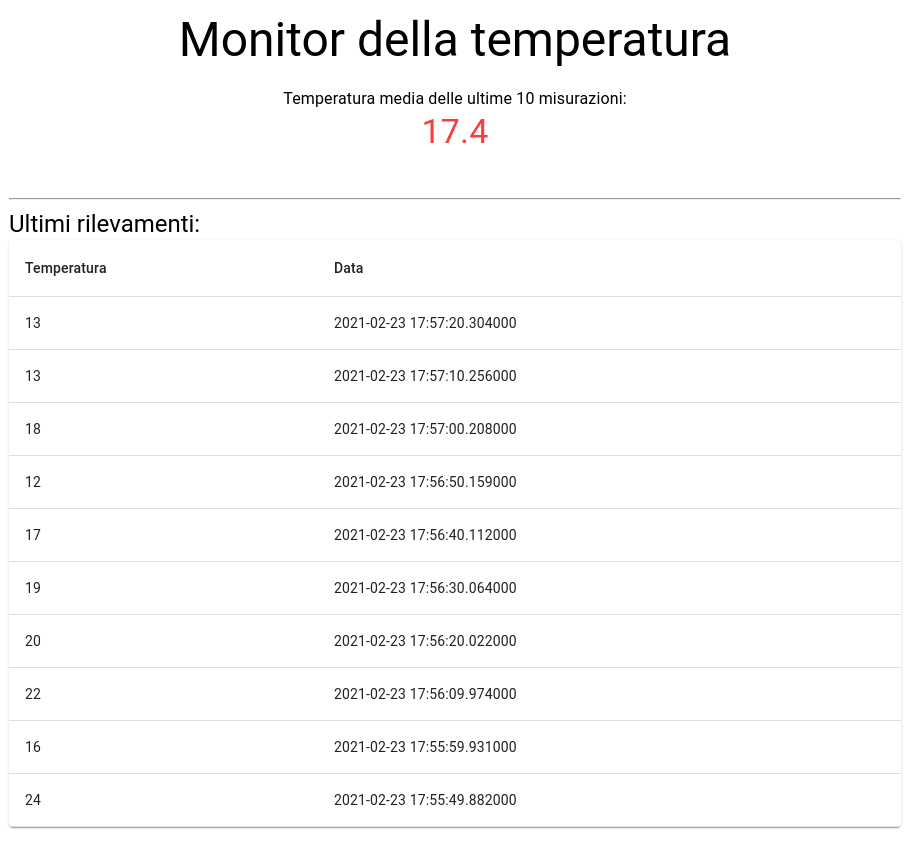
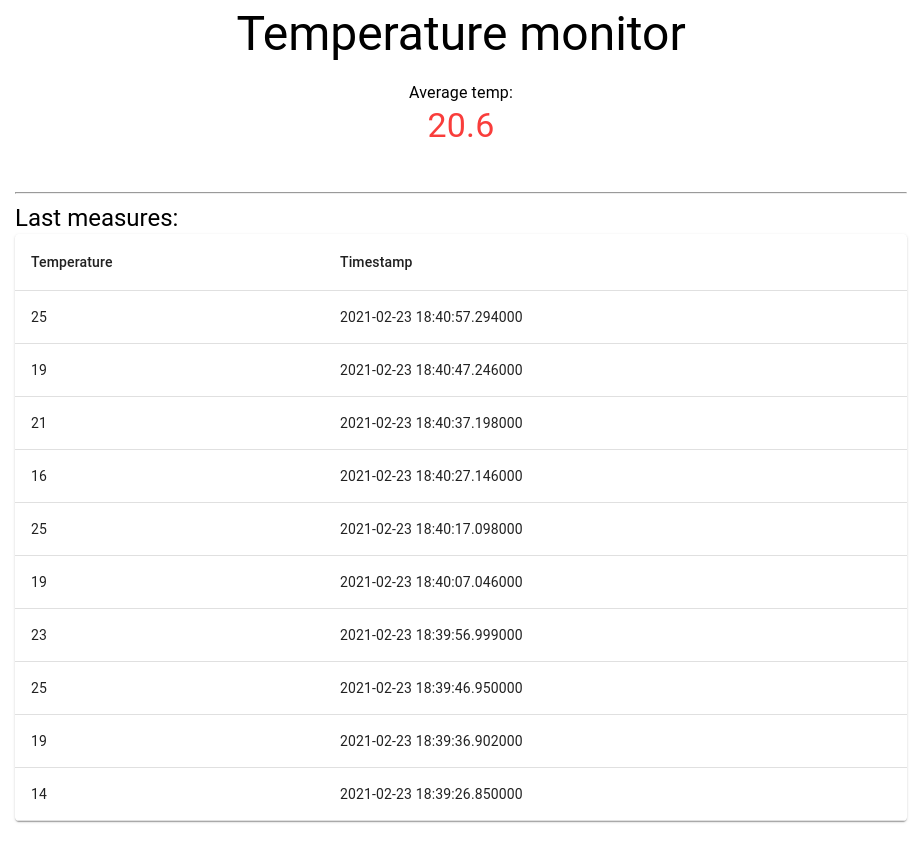
typo fix

diff --git a/frontend-web/dashboard-react/src/App.js b/frontend-web/dashboard-react/src/App.js
@@ -69,13 +69,13 @@ function App() {
 
       <Container>
         <hr />
-        <Typography variant="h5">Ultimi rilevamenti: </Typography>
+        <Typography variant="h5">Last measures: </Typography>
         <TableContainer component={Paper}>
           <Table className="BookmarksTable" aria-label="simple table">
             <TableHead>
               <TableRow>
-                <TableCell>Temperatura</TableCell>
-                <TableCell>Data</TableCell>
+                <TableCell>Temperature</TableCell>
+                <TableCell>Timestamp</TableCell>
               </TableRow>
             </TableHead>
             <TableBody>{renderTr(tempArray)}</TableBody>
